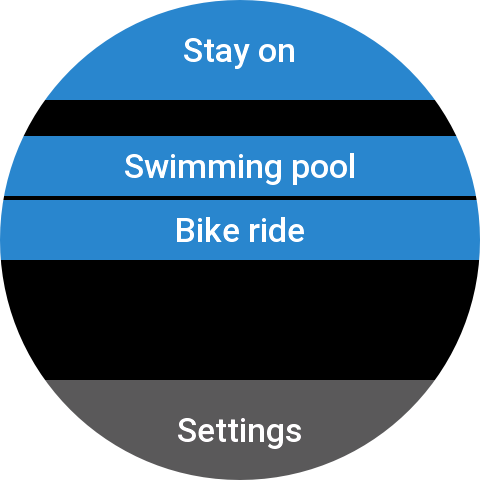
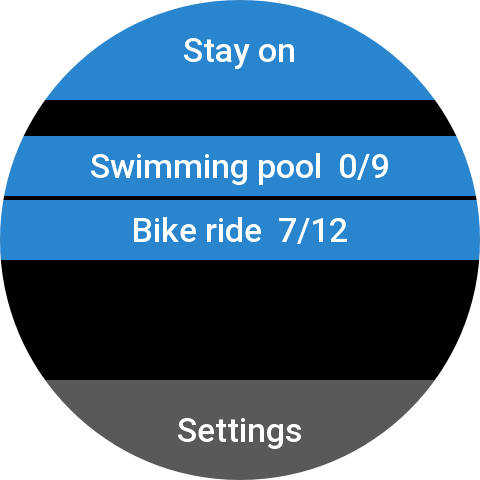
README update

Changed region(s): [[0.1875, 0.3125, 0.8125, 0.4062], [0.2812, 0.4375, 0.7188, 0.5312]]

diff --git a/README.md b/README.md
@@ -15,6 +15,7 @@ A Zepp OS smartwatch app for reusable daily checklists — pack for a swim, gear
 - [Getting started](#getting-started)
 - [Phone app (Zepp companion settings)](#phone-app-zepp-companion-settings)
 - [Watch app](#watch-app)
+- [Watch widget](#watch-widget)
 - [How sync works](#how-sync-works)
 - [Free trial vs full version](#free-trial-vs-full-version)
 - [Supported devices](#supported-devices)
@@ -43,6 +44,7 @@ Typical uses:
 | Reset all items in a list | | ✓ |
 | Adjust row height, reopen-on-wake | | ✓ |
 | Keep screen on while packing | | ✓ |
+| See recently used checklists on a widget | | ✓ (supported devices) |
 
 On first install, the app includes two **sample checklists** (*Swimming pool* and *Bike ride*) so you can try it immediately.
 
@@ -54,6 +56,7 @@ On first install, the app includes two **sample checklists** (*Swimming pool* an
 2. Open the app on your watch and wait for the initial sync with your phone (you may briefly see **Syncing…**).
 3. On your phone, open the Zepp app → **Device** → **App settings** → **My Checklists** to edit lists.
 4. Changes made on the phone sync to the watch when the devices are connected.
+5. Optional: on supported watches, add the **My Checklists** widget under **Settings → Preferences → Widget** for quick access to recently used lists.
 
 ---
 
@@ -93,14 +96,14 @@ The phone side is where you **build and maintain** your checklists. Open it from
 
 ### Main screen — checklist list
 
-When you open My Checklists on the watch, you see all your checklists as tappable rows.
+When you open My Checklists on the watch, you see all your checklists as tappable rows. Each row shows the checklist name and progress as **done / total** (for example `Swimming pool  3/8`).
 
 <img src="docs/screenshots/03-watch-main-checklists.png" alt="Watch main screen — checklist list (Stay on off)" width="240" />
 
 | Control | Description |
 |---------|-------------|
 | **Stay on** (top bar) | Toggle to keep the screen awake while you pack. Blue = on, gray = off. Useful when checking many items in a row. |
-| **Checklist buttons** | Tap a checklist to open its items. |
+| **Checklist buttons** | Tap a checklist to open its items. The label includes progress (`name  done/total`). |
 | **Settings** | Opens watch-specific display and purchase options. |
 
 **Stay on enabled** (blue top bar):
@@ -156,10 +159,38 @@ Tap **Back** to save layout changes and return to the main screen.
 
 ---
 
+## Watch widget
+
+On devices that support **SecondaryWidget**, you can add **My Checklists** as a full-screen widget (swipe horizontally from the watch face to browse widgets in either direction).
+
+<img src="docs/screenshots/12-watch-widget.png" alt="Watch widget — recently used checklists" width="240" />
+
+| Control | Description |
+|---------|-------------|
+| **My Checklists** (top bar) | Opens the main checklist list in the app. |
+| **Recently used checklists** | Section label above the rows. |
+| **Checklist rows** | Shows as many recently used checklists as fit on the screen. Each row uses the same `name  done/total` progress label as the main app. Tap a row to open that checklist’s items. |
+
+**How “recently used” is decided**
+
+- Checking or unchecking an item counts as use.
+- **Deselect all** also counts as use.
+- Lists are sorted by most recent use. Lists you have never used yet keep their normal app order as a fallback.
+
+**Navigation from the widget**
+
+- Tap a checklist → opens the items screen.
+- From that items screen, **Back**, the system **back gesture**, and the hardware **back** key (where available) all go to the main checklist list — not back to the widget — so you can open another list without leaving the app.
+- Tap **My Checklists** on the widget → opens the main checklist list directly.
+
+> **Note:** Not every Amazfit model supports SecondaryWidget. If you do not see My Checklists in **Settings → Preferences → Widget**, your watch does not expose this surface.
+
+---
+
 ## How sync works
 
 - **Phone → watch:** Checklist names, item names, and order are edited on the phone and pushed to the watch over Bluetooth when connected.
-- **Watch-only data:** Which items are checked off (**red** vs **gray**) is stored on the watch. When lists are updated from the phone, your checked states for **unchanged item names** are preserved.
+- **Watch-only data:** Which items are checked off (**red** vs **gray**) is stored on the watch. When lists are updated from the phone, your checked states for **unchanged item names** are preserved. Recent-use order for the widget is also stored on the watch.
 - **Offline watch:** Previously synced lists remain available on the watch; new edits from the phone apply the next time devices connect.
 - **Renamed or removed items** on the phone may reset the checked state for those entries on the next sync.
 